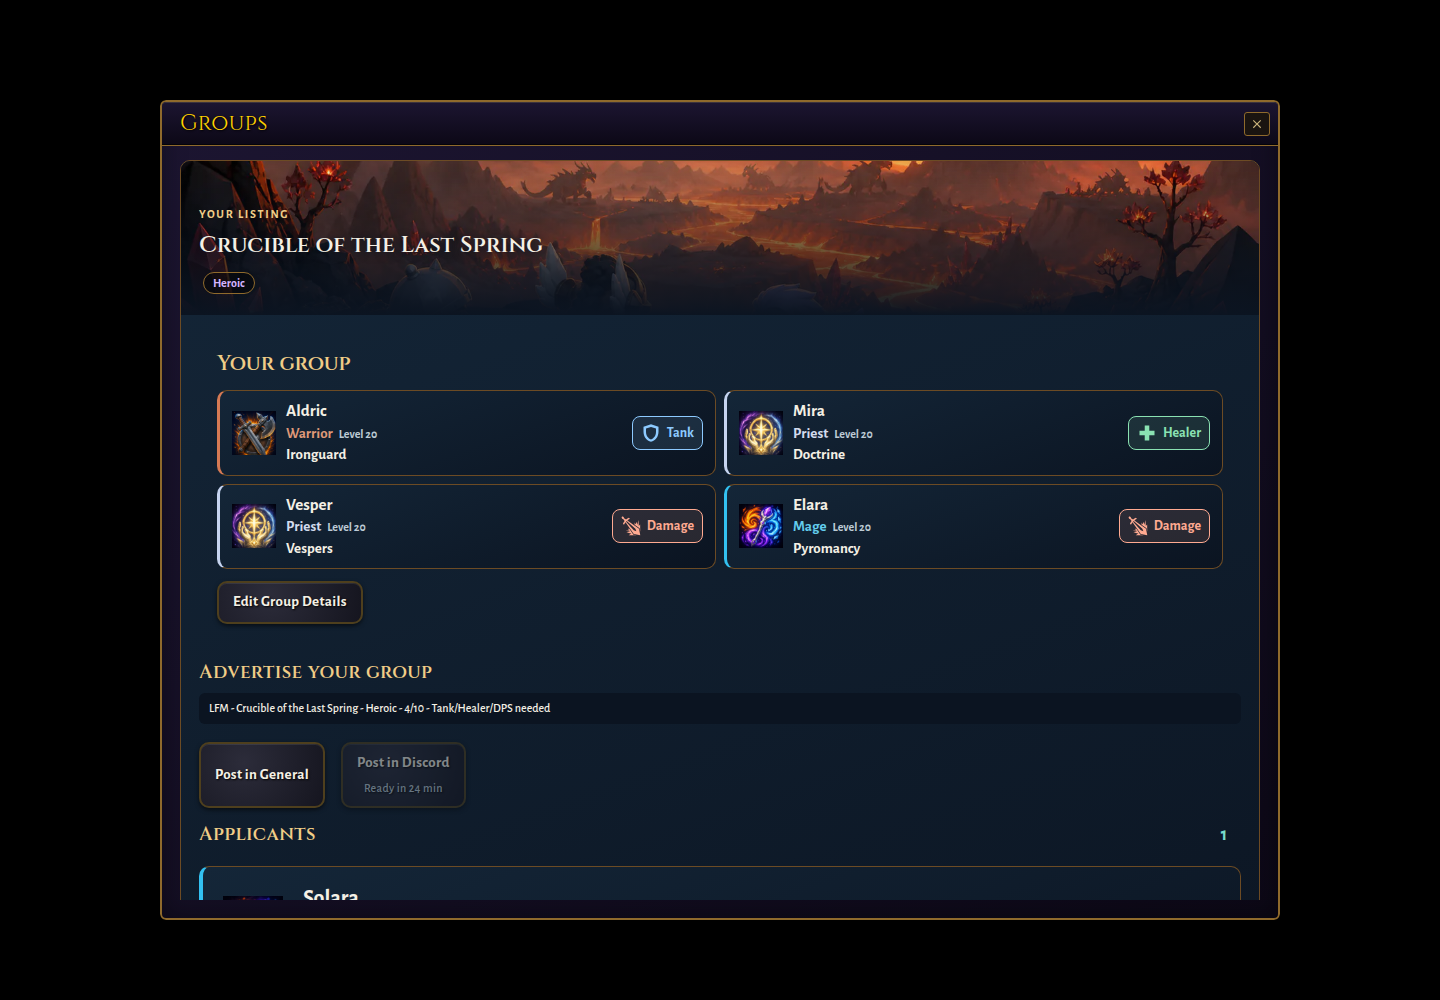
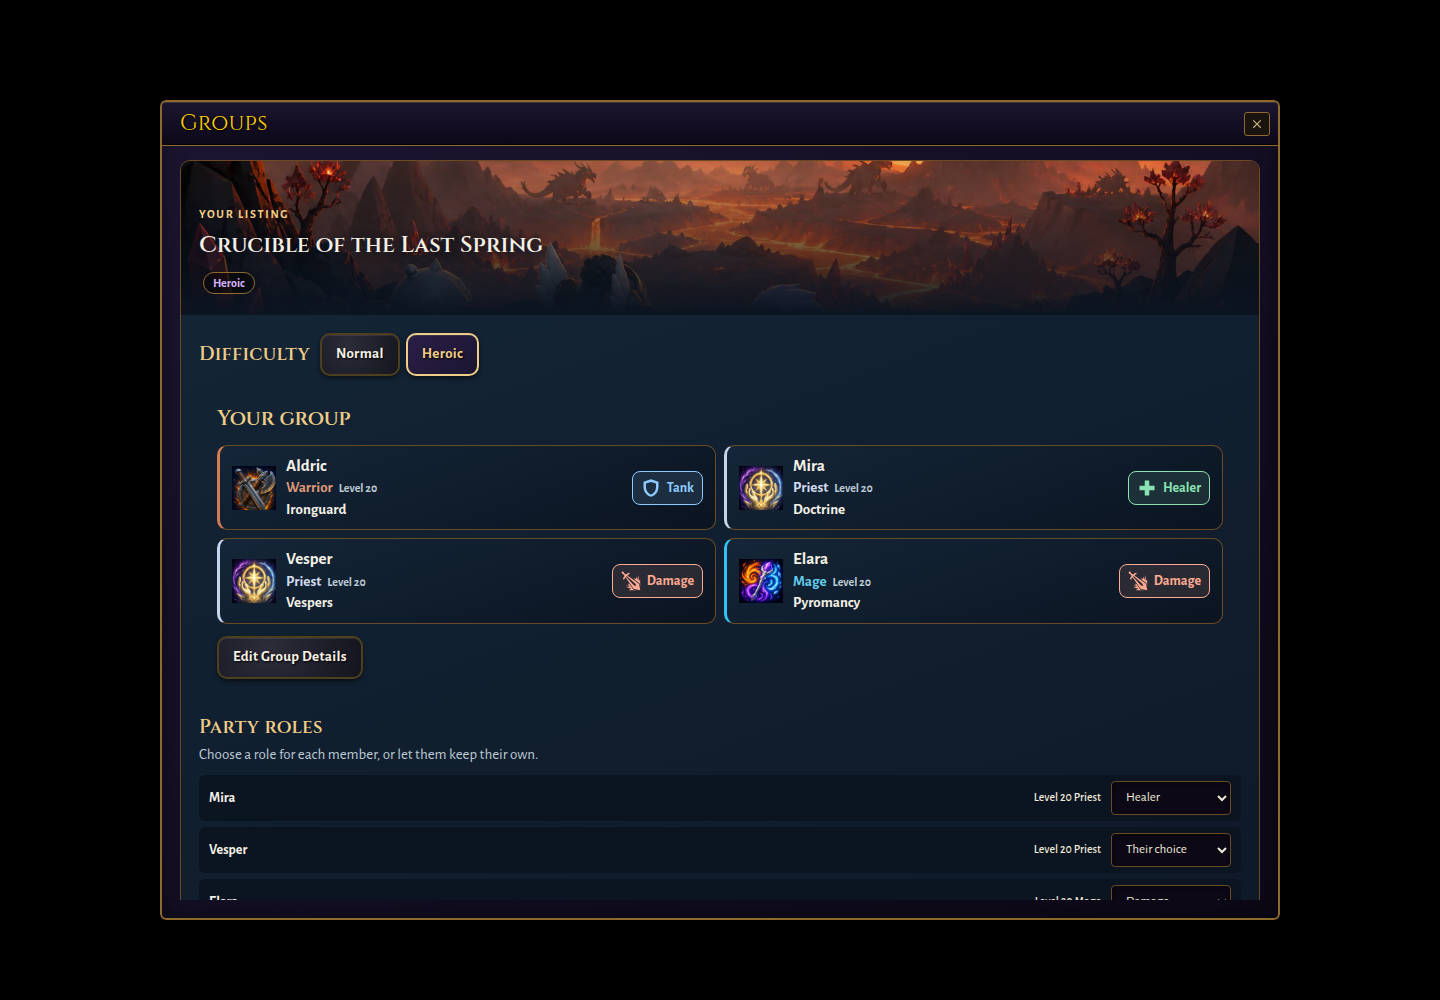
docs(groups): before and after screenshots for party roles
Adds a create-with-party capture to the fixture script and shoots it on
the previous head and on this change, desktop and mobile, so the role
pickers and the difficulty switch can be compared like for like.

diff --git a/docs/screenshots/dungeon-groups/README.md b/docs/screenshots/dungeon-groups/README.md
@@ -17,7 +17,10 @@ The script uses the game's Google Fonts stylesheet and waits for fonts and image
 | --- | --- | --- |
 | Browse groups | [Current](after-desktop-groups.png) | [Current](after-mobile-groups.png) |
 | Create group | [Current](after-desktop-create.png) | [Current](after-mobile-create.png) |
+| Create group with a party | [Current](after-desktop-create-party.png) | [Current](after-mobile-create-party.png) |
 | Members and applications | [Current](after-desktop-members.png) | [Current](after-mobile-members.png) |
+| Before party roles and the difficulty switch (Create with a party) | [Before](before-party-desktop-create-party.png) | [Before](before-party-mobile-create-party.png) |
+| Before party roles and the difficulty switch (Members) | [Before](before-party-desktop-members.png) | [Before](before-party-mobile-members.png) |
 | Before the Groups extras (Browse) | [Before](before-lfm-desktop-groups.png) | [Before](before-lfm-mobile-groups.png) |
 | Before the Groups extras (Create) | [Before](before-lfm-desktop-create.png) | [Before](before-lfm-mobile-create.png) |
 | Before the Groups extras (Members) | [Before](before-lfm-desktop-members.png) | [Before](before-lfm-mobile-members.png) |
@@ -32,3 +35,7 @@ The `before-lfm-*` images are the PR head before the Groups extras (compact rows
 content filter, Guild Parties, the advert buttons and applicant Inspect), shot with that
 commit's own fixture script. The `after-*` images use the extended fixture (a Guild Party
 listing, the leader's advert line and cooldowns), so the listing set differs by one row.
+
+The `before-party-*` images are the previous PR head (party already joining the listing, but
+with no role pickers and no difficulty switch), shot with this commit's fixture script so the
+fixture state matches the `after-*` images exactly.
